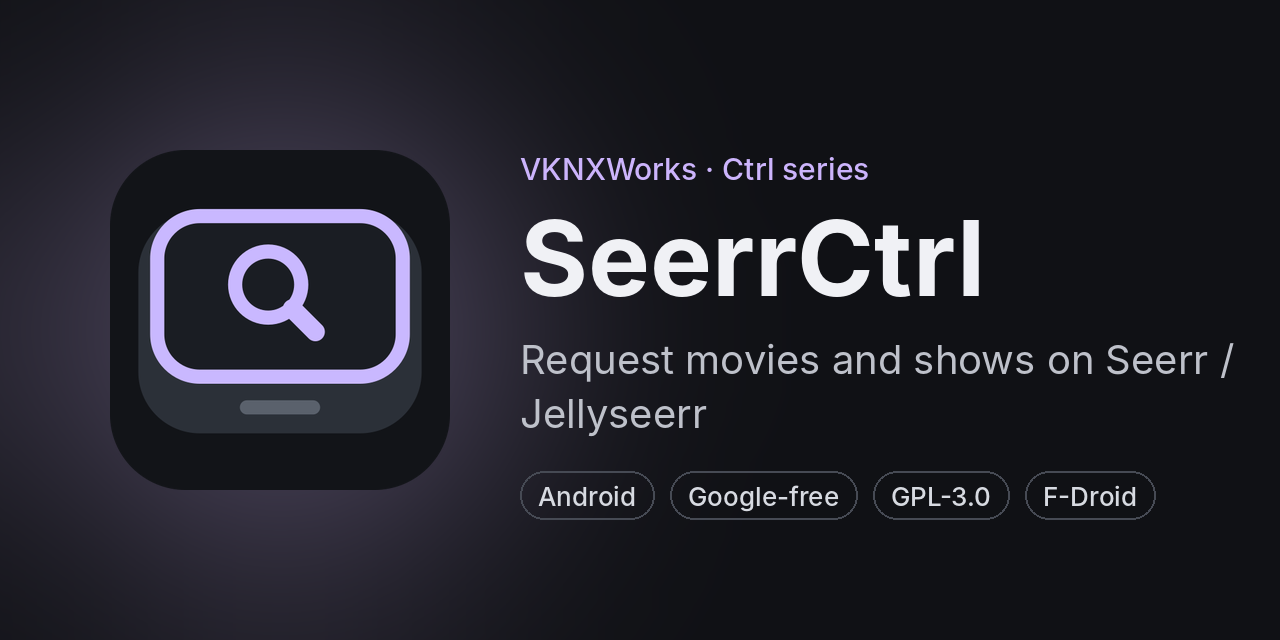
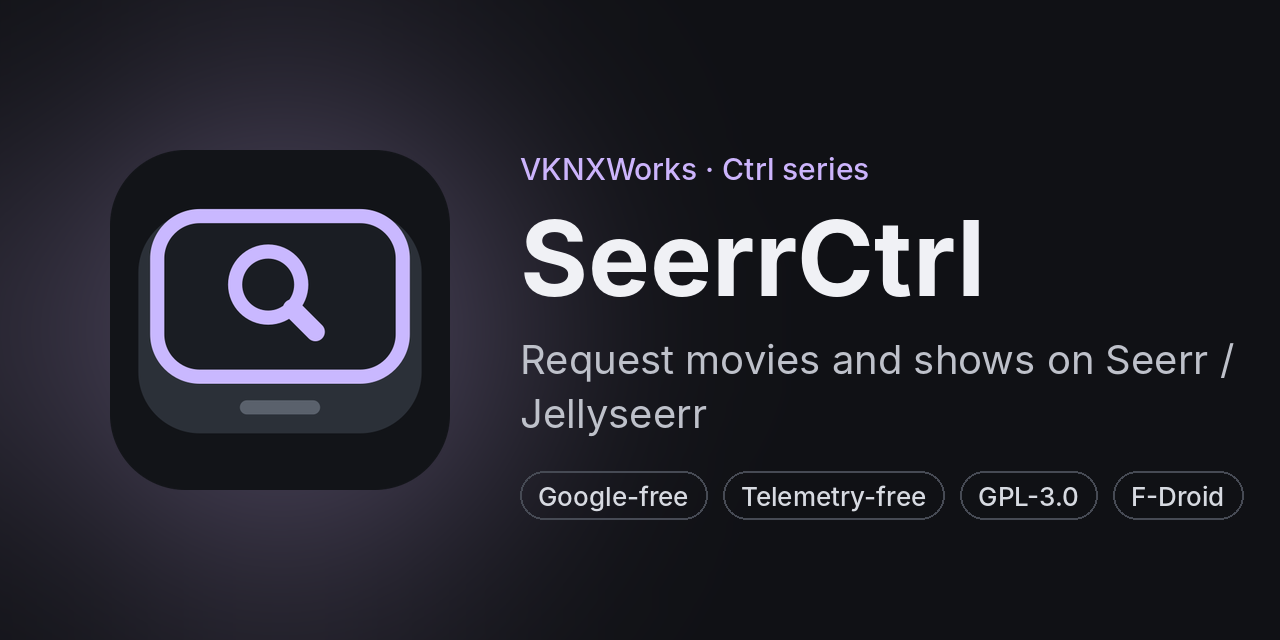
SeerrCtrl 1.4.10: telemetry-free
Remove the opt-in Aptabase usage stats completely: Telemetry.kt, the
one-time UsageStatsPrompt, the Usage stats setting, all tracking calls
(screens, tabs, searches, requests, approve/decline), the
APTABASE_KEY/APTABASE_HOST build config, the stats server's
network-security entry and the CI key check. The stored stats choice is
deleted from the phone at start-up.
README: Telemetry-free badge and a Privacy section; new link preview image.

Claude-Session: https://claude.ai/code/session_01EwhEpZ1DKRJef9Cqeiv5g2

Changed region(s): [[0.4062, 0.7188, 0.9688, 0.8125]]

diff --git a/app/src/main/java/com/vknxworks/seerrctrl/ui/Requests.kt b/app/src/main/java/com/vknxworks/seerrctrl/ui/Requests.kt
@@ -266,10 +266,10 @@ fun RequestCard(r: JSONObject, onChanged: () -> Unit) {
             ) {
                 if (manage && status == RequestStatus.Pending) {
                     FilledTonalButton(enabled = !act.busy, onClick = {
-                        act.run("Approved", onOk = { onChanged() }) { App.api.post("/request/${r.int("id")}/approve"); trackDecision(true, "button") }
+                        act.run("Approved", onOk = { onChanged() }) { App.api.post("/request/${r.int("id")}/approve") }
                     }) { Icon(Icons.Outlined.Check, null, Modifier.size(18.dp)); Spacer(Modifier.width(6.dp)); Text("Approve") }
                     OutlinedButton(enabled = !act.busy, onClick = {
-                        act.run("Declined", onOk = { onChanged() }) { App.api.post("/request/${r.int("id")}/decline"); trackDecision(false, "button") }
+                        act.run("Declined", onOk = { onChanged() }) { App.api.post("/request/${r.int("id")}/decline") }
                     }) { Icon(Icons.Outlined.Close, null, Modifier.size(18.dp)); Spacer(Modifier.width(6.dp)); Text("Decline") }
                 }
                 if (manage && status == RequestStatus.Failed) {
@@ -338,8 +338,8 @@ fun RequestInline(r: JSONObject, onChanged: () -> Unit, onEdit: () -> Unit) {
             if (status == RequestStatus.Pending && (manage || mine) || manage && status == RequestStatus.Failed) {
                 Row(horizontalArrangement = Arrangement.spacedBy(8.dp)) {
                     if (manage && status == RequestStatus.Pending) {
-                        FilledTonalButton({ act.run("Approved", onOk = { onChanged() }) { App.api.post("/request/${r.int("id")}/approve"); trackDecision(true, "button") } }) { Text("Approve") }
-                        OutlinedButton({ act.run("Declined", onOk = { onChanged() }) { App.api.post("/request/${r.int("id")}/decline"); trackDecision(false, "button") } }) { Text("Decline") }
+                        FilledTonalButton({ act.run("Approved", onOk = { onChanged() }) { App.api.post("/request/${r.int("id")}/approve") } }) { Text("Approve") }
+                        OutlinedButton({ act.run("Declined", onOk = { onChanged() }) { App.api.post("/request/${r.int("id")}/decline") } }) { Text("Decline") }
                     }
                     if (manage && status == RequestStatus.Failed) {
                         FilledTonalButton({ act.run("Retrying", onOk = { onChanged() }) { App.api.post("/request/${r.int("id")}/retry") } }) { Text("Retry") }
@@ -378,11 +378,6 @@ fun RequestMiniCard(r: JSONObject) {
     }
 }
 
-
-/** Usage stats (only if the user opted in): approved or declined and how, never which request or title. */
-fun trackDecision(approved: Boolean, via: String) =
-    App.telemetry.track("request_decided", mapOf("decision" to if (approved) "approved" else "declined", "via" to via))
-
 /** Pending requests can be swiped: right approves, left declines. Other cards don't move. */
 @Composable
 fun SwipeToDecide(
@@ -406,7 +401,6 @@ fun SwipeToDecide(
             act.run(if (approve) "Approved" else "Declined", onOk = { onDecided(approve) }) {
                 try { App.api.post("/request/${r.int("id")}/${if (approve) "approve" else "decline"}") }
                 catch (e: Exception) { onFailed(); throw e }
-                trackDecision(approve, "swipe")
             }
             true
         },

diff --git a/app/src/main/java/com/vknxworks/seerrctrl/MainActivity.kt b/app/src/main/java/com/vknxworks/seerrctrl/MainActivity.kt
@@ -70,9 +70,7 @@ import androidx.lifecycle.viewmodel.compose.viewModel
 import androidx.navigation.NavBackStackEntry
 import androidx.navigation.compose.NavHost
 import androidx.navigation.compose.composable
-import androidx.navigation.compose.currentBackStackEntryAsState
 import androidx.navigation.compose.rememberNavController
-import com.vknxworks.seerrctrl.data.Telemetry
 import com.vknxworks.seerrctrl.ui.AppSettingsScreen
 import com.vknxworks.seerrctrl.ui.BlocklistScreen
 import com.vknxworks.seerrctrl.ui.BrowseScreen
@@ -88,7 +86,6 @@ import com.vknxworks.seerrctrl.ui.SeerrTheme
 import com.vknxworks.seerrctrl.ui.ServerTrustPrompts
 import com.vknxworks.seerrctrl.ui.SetupScreen
 import com.vknxworks.seerrctrl.ui.UserSettingsScreen
-import com.vknxworks.seerrctrl.ui.UsageStatsPrompt
 import com.vknxworks.seerrctrl.ui.UsersScreen
 import com.vknxworks.seerrctrl.ui.WatchlistScreen
 import com.vknxworks.seerrctrl.ui.admin.AdminSettingsScreen
@@ -140,7 +137,6 @@ class MainActivity : FragmentActivity() {
         // Never keep a snapshot of the app for the recents screen.
         setRecentsScreenshotEnabled(false)
         takeRoute(intent)
-        if (savedInstanceState == null) App.telemetry.appOpened()
         enableEdgeToEdge()
         setContent {
             SeerrTheme {
@@ -280,7 +276,6 @@ private fun Root(activity: FragmentActivity, lockVm: AppLockViewModel = viewMode
             } else {
                 AdaptiveShell(activity, ::logout)
                 ServerTrustPrompts(onLogout = ::logout)
-                UsageStatsPrompt()
             }
             SnackbarHost(snack, Modifier.align(Alignment.BottomCenter).navigationBarsPadding().padding(bottom = 92.dp))
         }
@@ -308,14 +303,6 @@ private fun AdaptiveShell(activity: FragmentActivity, logout: () -> Unit) {
             val nav = rememberNavController()
             LaunchedEffect(DeepLink.route) {
                 DeepLink.route?.let { r -> DeepLink.route = null; nav.navigate(r) }
-            }
-            // Usage stats (only if the user opted in): the kind of screen, never the title, person or user it shows.
-            val entry by nav.currentBackStackEntryAsState()
-            val route = entry?.destination?.route
-            LaunchedEffect(entry?.id) {
-                if (route != null && route != "main" && route != "empty") {
-                    App.telemetry.track("screen_viewed", mapOf("screen" to Telemetry.screenName(route)))
-                }
             }
             CompositionLocalProvider(LocalNav provides nav) {
                 if (!twoPane) {

diff --git a/app/src/main/java/com/vknxworks/seerrctrl/data/Settings.kt b/app/src/main/java/com/vknxworks/seerrctrl/data/Settings.kt
@@ -12,6 +12,13 @@ enum class ThemeMode { System, Light, Dark }
 class Settings(context: Context) {
     private val sp = context.getSharedPreferences("seerr_settings", Context.MODE_PRIVATE)
 
+    init {
+        // Versions before 1.4.10 stored the choice for the old opt-in stats under keys starting with
+        // "usage_". Nothing uses them any more, so they're deleted from the phone.
+        val old = sp.all.keys.filter { it.startsWith("usage_") }
+        if (old.isNotEmpty()) sp.edit().apply { old.forEach { remove(it) } }.apply()
+    }
+
     private fun bool(key: String, def: Boolean) = mutableStateOf(sp.getBoolean(key, def))
     private fun int(key: String, def: Int) = mutableIntStateOf(sp.getInt(key, def))
 
@@ -86,18 +93,6 @@ class Settings(context: Context) {
     var notifyEveryMinutes: Int
         get() = _nEvery.intValue
         set(v) { _nEvery.intValue = v; sp.edit().putInt("notify_every", v).apply() }
-
-    /** Opt-in anonymous usage stats (off until the user says yes). */
-    private val _usageStats = bool("usage_stats", false)
-    var usageStats: Boolean
-        get() = _usageStats.value
-        set(v) { _usageStats.value = v; sp.edit().putBoolean("usage_stats", v).apply() }
-
-    /** Whether the one-time usage stats question has been answered. */
-    private val _usageStatsAsked = bool("usage_stats_asked", false)
-    var usageStatsAsked: Boolean
-        get() = _usageStatsAsked.value
-        set(v) { _usageStatsAsked.value = v; sp.edit().putBoolean("usage_stats_asked", v).apply() }
 
     var askedNotificationPermission: Boolean
         get() = sp.getBoolean("asked_notif_perm", false)

diff --git a/app/src/main/java/com/vknxworks/seerrctrl/ui/AppSettingsScreen.kt b/app/src/main/java/com/vknxworks/seerrctrl/ui/AppSettingsScreen.kt
@@ -33,7 +33,6 @@ import androidx.compose.material.icons.outlined.DarkMode
 import androidx.compose.material.icons.outlined.Dns
 import androidx.compose.material.icons.outlined.Fingerprint
 import androidx.compose.material.icons.outlined.GridView
-import androidx.compose.material.icons.outlined.Insights
 import androidx.compose.material.icons.outlined.LightMode
 import androidx.compose.material.icons.outlined.Lock
 import androidx.compose.material.icons.outlined.Palette
@@ -190,20 +189,6 @@ fun AppSettingsScreen(onLogout: () -> Unit) {
                     ItemDivider()
                 }
                 NavItem(Icons.AutoMirrored.Outlined.Logout, "Log out", "Sign out and forget this server") { confirmLogout = true }
-            }
-
-            if (App.telemetry.available) {
-                SettingsSection("Usage stats") {
-                    ToggleItem(
-                        Icons.Outlined.Insights, "Share anonymous usage stats", "Helps decide what to improve next",
-                        s.usageStats,
-                    ) { App.telemetry.setOptIn(it) }
-                }
-                Text(
-                    USAGE_STATS_DESCRIPTION,
-                    style = MaterialTheme.typography.bodySmall, color = MaterialTheme.colorScheme.onSurfaceVariant,
-                    modifier = Modifier.padding(start = 20.dp, end = 20.dp, top = 8.dp),
-                )
             }
 
             SettingsSection(stringResource(R.string.group_about)) {

diff --git a/app/src/main/java/com/vknxworks/seerrctrl/ui/MainScreen.kt b/app/src/main/java/com/vknxworks/seerrctrl/ui/MainScreen.kt
@@ -118,18 +118,6 @@ fun MainScreen() {
 
     BackHandler(MainTab.selected != MainTab.DISCOVER) { MainTab.selected = MainTab.DISCOVER }
 
-    // Usage stats (only if the user opted in): which tab, by a fixed name.
-    LaunchedEffect(MainTab.selected) {
-        val tab = when (MainTab.selected) {
-            MainTab.SEARCH -> "search"
-            MainTab.REQUESTS -> "requests"
-            MainTab.ISSUES -> "issues"
-            MainTab.MORE -> "more"
-            else -> "discover"
-        }
-        App.telemetry.track("screen_viewed", mapOf("screen" to "tab_$tab"))
-    }
-
     val content: @Composable () -> Unit = {
         AnimatedContent(MainTab.selected, transitionSpec = { fadeIn() togetherWith fadeOut() }, label = "tab") { t ->
             when (t) {
@@ -191,10 +179,6 @@ fun SearchTab() {
     var debounced by rememberSaveable { mutableStateOf("") }
     var kind by rememberSaveable { mutableStateOf(SearchKind.All) }
     LaunchedEffect(query) { delay(400); debounced = query.trim() }
-    // Usage stats: only that a search ran and which kind (all, keywords, studios), never what was typed.
-    LaunchedEffect(debounced, kind) {
-        if (debounced.isNotEmpty()) App.telemetry.track("search_used", mapOf("kind" to kind.name.lowercase()))
-    }
 
     Column(Modifier.fillMaxSize()) {
         OutlinedTextField(

diff --git a/app/src/main/java/com/vknxworks/seerrctrl/ui/People.kt b/app/src/main/java/com/vknxworks/seerrctrl/ui/People.kt
@@ -193,10 +193,6 @@ fun CollectionScreen(id: Int) {
                                     try { App.api.post("/request", jsonOf("mediaType" to "movie", "mediaId" to t.id, "is4k" to fourK)) }
                                     catch (_: Exception) { failed++ }
                                 }
-                                if (failed < list.size) {
-                                    // Usage stats: a collection request of movies, never which collection or titles.
-                                    App.telemetry.track("request_made", mapOf("media" to "movie", "is4k" to fourK.toString()))
-                                }
                                 if (failed > 0) error("$failed of ${list.size} requests failed")
                             }
                         }) { Text("Request") }

diff --git a/app/src/main/java/com/vknxworks/seerrctrl/App.kt b/app/src/main/java/com/vknxworks/seerrctrl/App.kt
@@ -6,7 +6,6 @@ import com.vknxworks.seerrctrl.data.Prefs
 import com.vknxworks.seerrctrl.data.SeerrApi
 import com.vknxworks.seerrctrl.data.Session
 import com.vknxworks.seerrctrl.data.Settings
-import com.vknxworks.seerrctrl.data.Telemetry
 
 /** Tiny service locator. */
 object App {
@@ -20,8 +19,6 @@ object App {
         private set
     lateinit var lock: LockSettings
         private set
-    lateinit var telemetry: Telemetry
-        private set
 
     fun init(ctx: Context) {
         if (::prefs.isInitialized) return
@@ -30,6 +27,5 @@ object App {
         session = Session(api)
         settings = Settings(ctx.applicationContext)
         lock = LockSettings(ctx.applicationContext)
-        telemetry = Telemetry(ctx.applicationContext, settings)
     }
 }

diff --git a/app/src/main/java/com/vknxworks/seerrctrl/ui/RequestDialog.kt b/app/src/main/java/com/vknxworks/seerrctrl/ui/RequestDialog.kt
@@ -176,11 +176,6 @@ fun RequestDialog(
                     snack.showSnackbar("Request updated")
                 } else {
                     App.api.post("/request", body)
-                    // Usage stats: only movie or series, 4K or not, never which title.
-                    App.telemetry.track(
-                        "request_made",
-                        mapOf("media" to if (tv) "tv" else "movie", "is4k" to is4k.toString()),
-                    )
                     snack.showSnackbar("Requested $title" + if (is4k) " in 4K" else "")
                 }
                 MediaCache.invalidate(type, tmdbId)

diff --git a/app/src/main/java/com/vknxworks/seerrctrl/notify/ActionReceiver.kt b/app/src/main/java/com/vknxworks/seerrctrl/notify/ActionReceiver.kt
@@ -30,7 +30,6 @@ class ActionReceiver : BroadcastReceiver() {
                 App.api.post("/request/$requestId/${if (approve) "approve" else "decline"}")
                 Notifier.replace(context, nid, Notifier.CH_PENDING, title, if (approve) "Approved" else "Declined")
                 Notifier.bump()
-                com.vknxworks.seerrctrl.ui.trackDecision(approve, "notification")
             } catch (_: Exception) {
                 Notifier.replace(context, nid, Notifier.CH_PENDING, title, "Couldn't ${if (approve) "approve" else "decline"} — open the app")
             } finally {

diff --git a/README.md b/README.md
@@ -2,7 +2,7 @@
 
 **Request movies and shows on your Seerr server from your phone.**
 
-[![Latest release](https://img.shields.io/github/v/release/VoidedKN0X/SeerrCtrl?label=download)](https://github.com/VoidedKN0X/SeerrCtrl/releases/latest) ![Android 13+](https://img.shields.io/badge/Android-13%2B-3DDC84?logo=android&logoColor=white) [![License: GPL-3.0](https://img.shields.io/badge/license-GPL--3.0-blue)](LICENSE) [![Sponsor](https://img.shields.io/badge/sponsor-GitHub-ea4aaa?logo=githubsponsors&logoColor=white)](https://github.com/sponsors/VoidedKN0X)
+[![Latest release](https://img.shields.io/github/v/release/VoidedKN0X/SeerrCtrl?label=download)](https://github.com/VoidedKN0X/SeerrCtrl/releases/latest) ![Android 13+](https://img.shields.io/badge/Android-13%2B-3DDC84?logo=android&logoColor=white) [![License: GPL-3.0](https://img.shields.io/badge/license-GPL--3.0-blue)](LICENSE) ![Telemetry-free](https://img.shields.io/badge/telemetry-none-brightgreen) [![Sponsor](https://img.shields.io/badge/sponsor-GitHub-ea4aaa?logo=githubsponsors&logoColor=white)](https://github.com/sponsors/VoidedKN0X)
 
 SeerrCtrl is an Android app for [Seerr](https://github.com/seerr-team/seerr) (and the older Jellyseerr and Overseerr). Discover, request and manage movies and series on your self-hosted server, with everything the web UI can do.
 
@@ -59,19 +59,13 @@ If the Obtainium button doesn't open the app, add `https://github.com/VoidedKN0X
 
 - **Late notifications on ColorOS and similar phones:** in the app go to *More → App settings → Notifications → Background activity* and allow it. On ColorOS, also allow **Auto launch** for SeerrCtrl in the phone's settings.
 
-## Usage stats
+## Privacy
 
-SeerrCtrl can share anonymous usage stats, **only if you say yes**. It asks once after you sign in, and you can change it any time in **More > App settings > Usage stats**.
-
-- **Shared:** which screens you open (the kind of screen, never which movie, series, person or user), whether you request a movie or a series (and in 4K or not), whether requests are approved or declined and from where (button, swipe or notification), that you searched and which search type, the app version, Android version, phone model, language, phone or tablet, and your theme setting.
-- **Never shared:** your server address, username or passwords, which titles you request, approve or search for, TMDB or request IDs, what you type, or any ID that stays the same between sessions.
-- **Where:** VKNXWorks' own self-hosted [Aptabase](https://aptabase.com) server. Nothing goes to Google or analytics companies. Like any website, the server sees your IP address; Aptabase uses it only to work out the country and doesn't store it.
-
-Builds from source don't include the stats key, so they can't send anything and the setting is hidden. The code is in [`Telemetry.kt`](app/src/main/java/com/vknxworks/seerrctrl/data/Telemetry.kt).
+**Telemetry-free.** SeerrCtrl has no analytics, crash reporting, usage stats or tracking of any kind. It only talks to the servers you add, plus the image and sign-in services Seerr itself relies on, listed below.
 
 ### Other servers the app talks to
 
-Apart from your own Seerr server (and the opt-in stats above), SeerrCtrl only contacts:
+Apart from your own Seerr server, SeerrCtrl only contacts:
 
 - **TMDB's image server** (`image.tmdb.org`) for posters, backdrops, photos and studio logos, unless your Seerr admin turned on **Cache images locally** (Settings > General in Seerr). Then every image comes through your Seerr server instead, and TMDB never sees your phone. TMDB sees your IP address and which titles' pictures are loaded.
 - **plex.tv**, only while you sign in with Plex.

diff --git a/CHANGELOG.md b/CHANGELOG.md
@@ -2,11 +2,15 @@
 
 To publish a new version: bump `versionCode` and `versionName` in `app/build.gradle.kts`, add a section here, and push to `main`. Pushes without a version bump only build; they don't make a release.
 
-## Unreleased
+## 1.4.10
+
+### Privacy
+
+- **No more usage stats: SeerrCtrl is now telemetry-free.** The optional anonymous usage stats are gone completely, along with the Usage stats setting in More > App settings and the one-time question after signing in. The app no longer contacts VKNXWorks' stats server at all, and the settings it used are deleted from your phone when you update. SeerrCtrl now only talks to your Seerr server, plus TMDB's image server, plex.tv and Gravatar in the same cases as before (see Privacy in the README)
 
 ### Changed
 
-- **README**: a Screenshots section (screenshots are coming soon), and a link preview image (`.github/assets/social-preview.png`) with SeerrCtrl's icon, name and summary, for when the repo is shared on Reddit, Discord or elsewhere
+- **README**: a Screenshots section (screenshots are coming soon), a new Privacy section and a "Telemetry-free" badge, and a link preview image (`.github/assets/social-preview.png`) with SeerrCtrl's icon, name and summary, for when the repo is shared on Reddit, Discord or elsewhere
 
 ## 1.4.9
 
